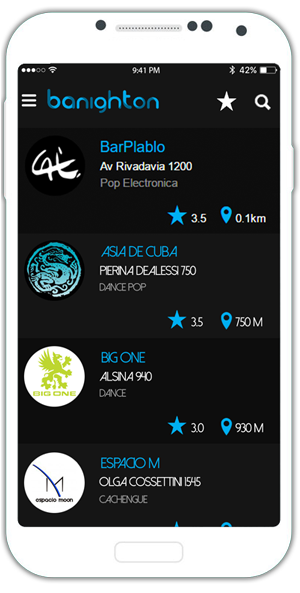
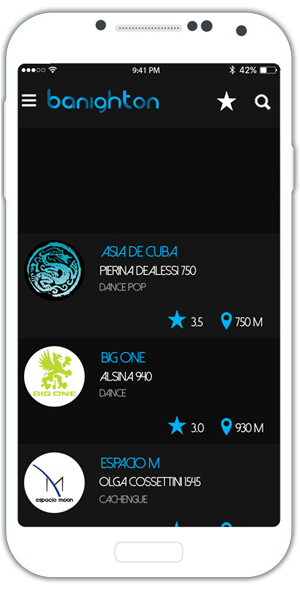
detalles 01

Changed region(s): [[0.33, 0.2125, 0.69, 0.3946], [0.09, 0.2428, 0.27, 0.3035], [0.72, 0.3339, 0.9, 0.3946]]

diff --git a/app/views/privado.html b/app/views/privado.html
@@ -263,7 +263,7 @@
 		<div class="col s12 m12 l4">
 			<div class="section">
 			    <h5>Visualizar</h5>
-			    <p>El contenido de como se vería en lista y individual</p>
+			    <p>El contenido de como se vería en lista e individual</p>
 			    <div class="row">
 				    <div class="col s12">
 				      <ul class="tabs">
@@ -487,7 +487,7 @@
 <div id="modalLugares" class="modal">
     <div class="modal-content">
         <h4>Seleccione un lugar</h4>
-        <p>Usted podrá ingresar todos los lugares que desee, .</p>
+        <p>Cada lugar puede tardar en estar online hasta 24 horas.</p>
         <div>
         	
 			<p>

diff --git a/app/views/inicio.html b/app/views/inicio.html
@@ -81,7 +81,7 @@
 			</div>
 		</div>
 		<div class="col s12 m4 wow fadeIn" data-wow-duration="1.5s">
-			<img src="./images/phone02.png">
+			<img src="./images/phone04.png">
 			<div class="texto">
 				<div class="circulos">2.</div>
 			    <h2>Qué lugar nos gusta mas?</h2>

diff --git a/app/scripts/controllers/privado.js b/app/scripts/controllers/privado.js
@@ -8,6 +8,8 @@ angular.module('webApp')
 
     $scope.status = 0;
 
+    $scope.ocultar = false;
+
     $timeout(function() {
     	var ref = new Firebase(fire.clients+'/clients/'+$rootScope.algo);
       var cliente = $firebaseArray(ref);
